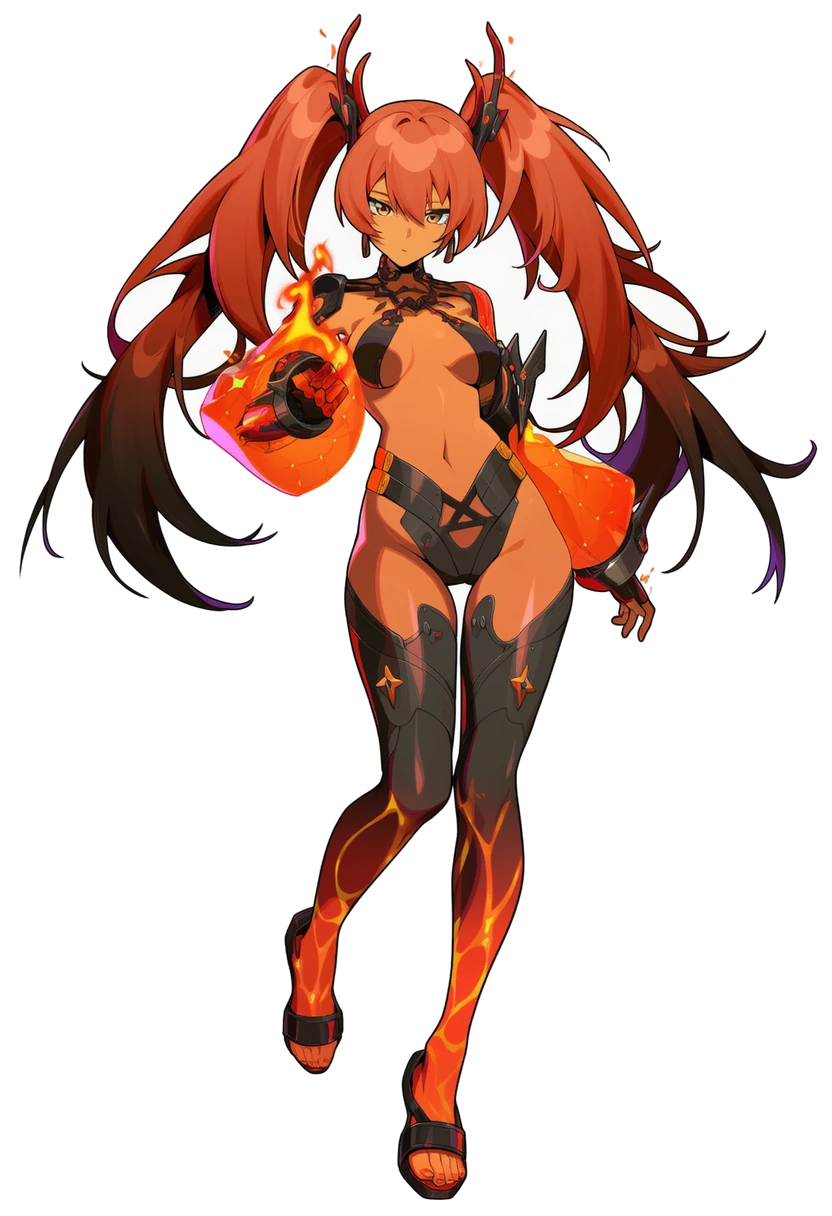
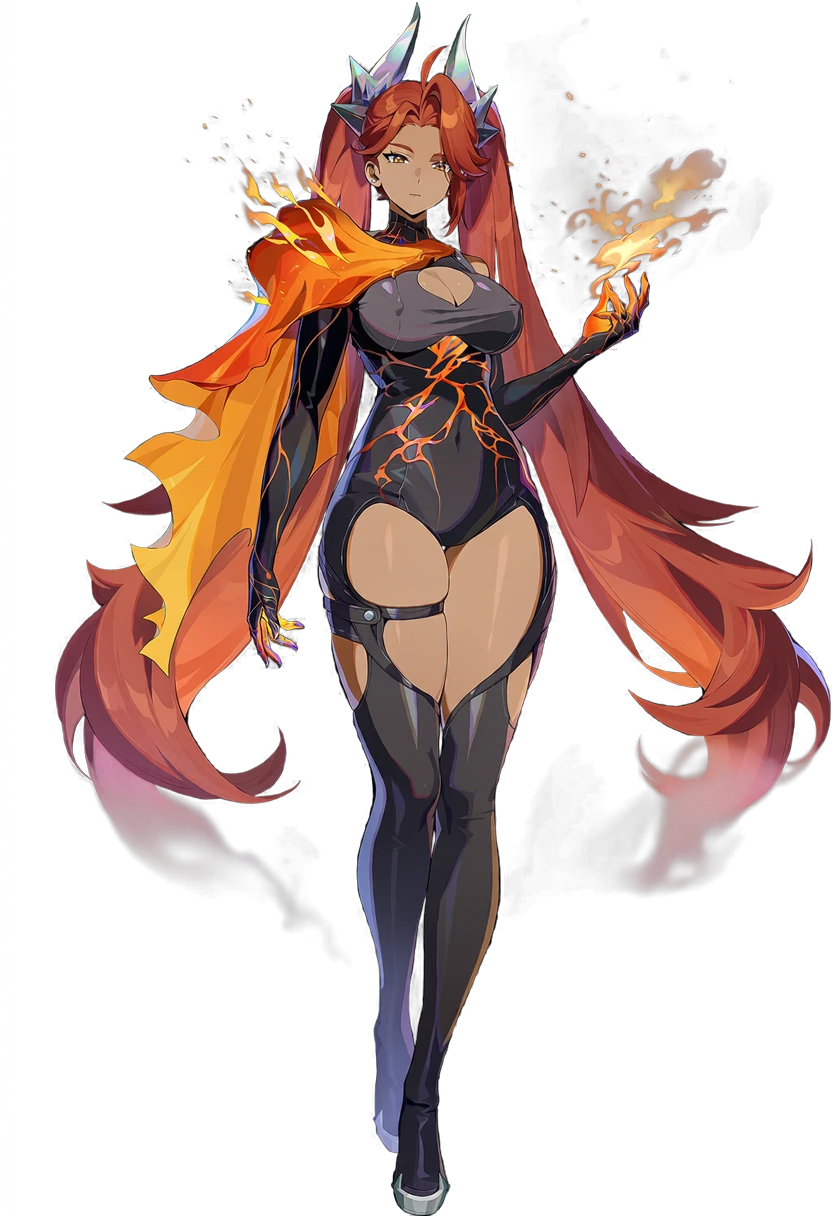
レジェンドの立ち絵刷新の画風を決め、エンバーを差し替える
■ V5 の利点が数字で出た
ツインテールの内側は cutout_background.py の塗りつぶしが外周から届かず、
出荷版は白いまま残っていた（囲まれた透明 0.00%）。V5 は画素ごとに透過を
返すので 0.31〜2.26% になり、地色の上に重ねても白い残りが消えた。

■ 画風は3回測って決めた（狙いは既存46体の中央値 彩度0.306 明度0.419）
  陰影の語（deep shadows 等） 明度0.176〜0.276 ← 沈みすぎる。入れない
  語なし                      彩度0.541 明度0.341 火の色相78〜97%
  colorful 系                 彩度0.556 明度0.341 火の色相92〜97%
  colorful ＋ 明るさ          彩度0.412 明度0.384 火の色相91〜99%  ← 採用

colorful 系は属性の色を散らさなかった。むしろ火の色相の下振れが消えた
（78%→91%）。テーマ色が末尾にあると、colorful は色を散らすのではなく
その中で濃くする方向に働く。

彩度の中央値は指標として不完全だった。colorful＋明るさは数字が落ちるのに
見た目は華やかになる——黒いボディスーツの面積が減ると数字が下がるため。
華やかさは「明るい色が占める面積」に出る。

■ 個別プロンプトに 1girl と書くと、レアリティの語が丸ごと落ちる
build_prompt は「自分で主語を名乗ったか」で補完を切り替えるが、
レアリティの味付けも同じ旗に乗っている。名乗った瞬間に
revealing clothing / cleavage cutout / skindentation / curvy / thick thighs
が全部消え、「肌の出ている場所が顔だけ」の絵になった。
rarityTags のコメントが警告している問題を、そのまま再現していた。

静かに壊れる場所なので、道具の側で警告を出すようにした。

diff --git a/tools/novelai_gen.py b/tools/novelai_gen.py
@@ -307,6 +307,23 @@ def build_prompt(target, catalog, overrides, extra=""):
     if not is_enemy and not declares_subject:
         rarity = (_meta(target) or {}).get("rarity")
         rarity_tag = (catalog.get("rarityTags") or {}).get(rarity, "")
+    elif not is_enemy and declares_subject:
+        # ここは静かに壊れる場所なので、黙って落とさず知らせる。
+        #
+        # 個別プロンプトの先頭に 1girl と書くと主語の補完が止まるが、
+        # **レアリティの味付けも同じ旗に乗っている**。名乗った瞬間に
+        # revealing clothing / cleavage cutout / skindentation / curvy /
+        # thick thighs が全部消える。
+        #
+        # 実際それでエンバーが「肌の出ている場所が顔だけ」になり、
+        # 暗いボディスーツが画面を占める絵になった。rarityTags のコメントが
+        # 警告している「高レアに見えない」問題を、そのまま再現していた。
+        rarity = (_meta(target) or {}).get("rarity")
+        if (catalog.get("rarityTags") or {}).get(rarity):
+            print("  ※ 個別プロンプトが 1girl / 1boy を名乗っているため、"
+                  "%s のレアリティの語（%s）が付きません。" % (tid, rarity))
+            print("     華やかさが要るなら、個別プロンプトから主語を外してください"
+                  "（主語は subject が入れます）。")
 
     pieces = [p for p in (subject, catalog["base"].get(base_key, ""), rarity_tag, detail, extra) if p]
     return ", ".join(pieces)
